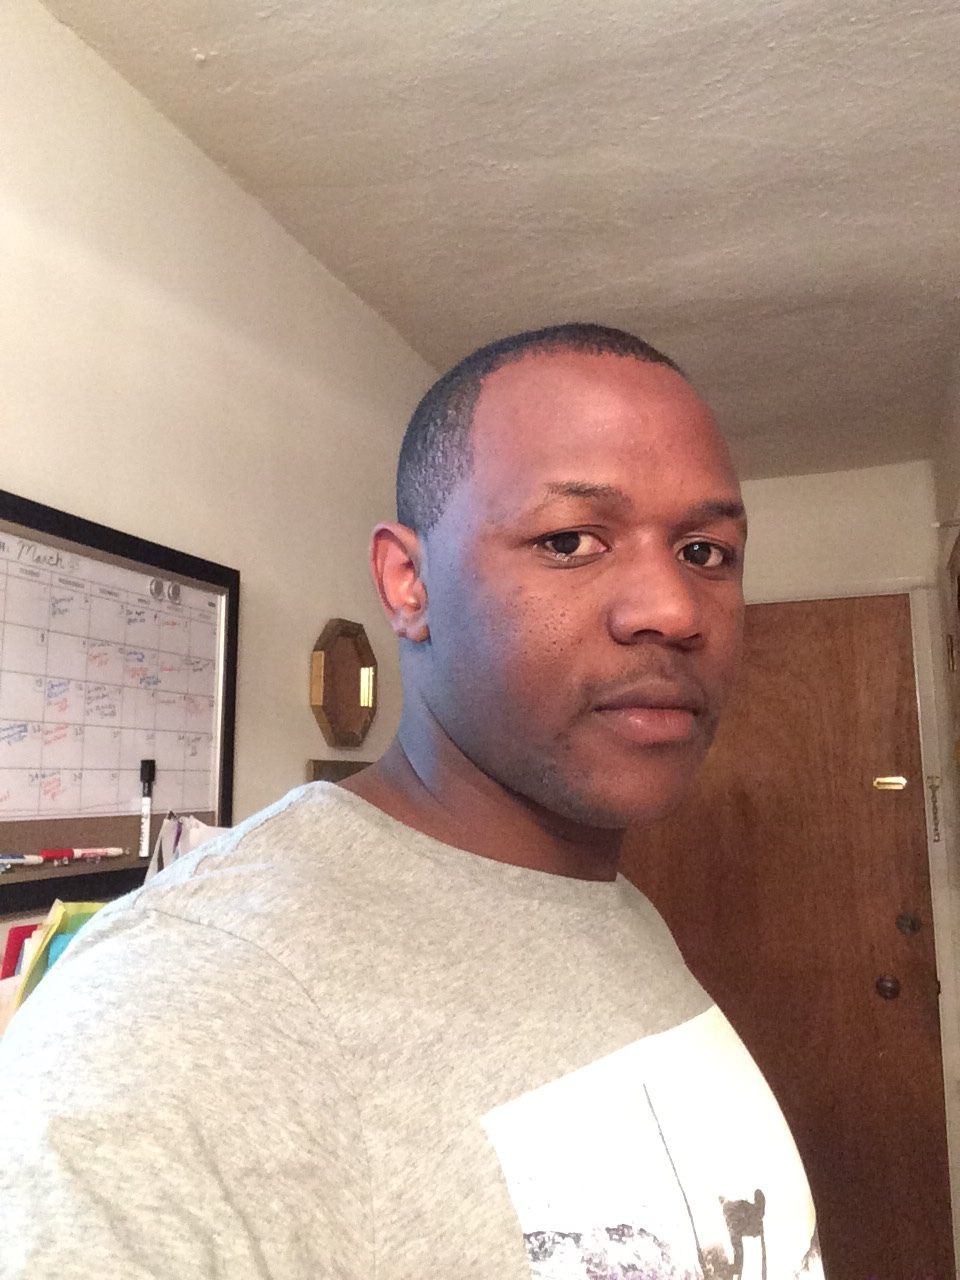
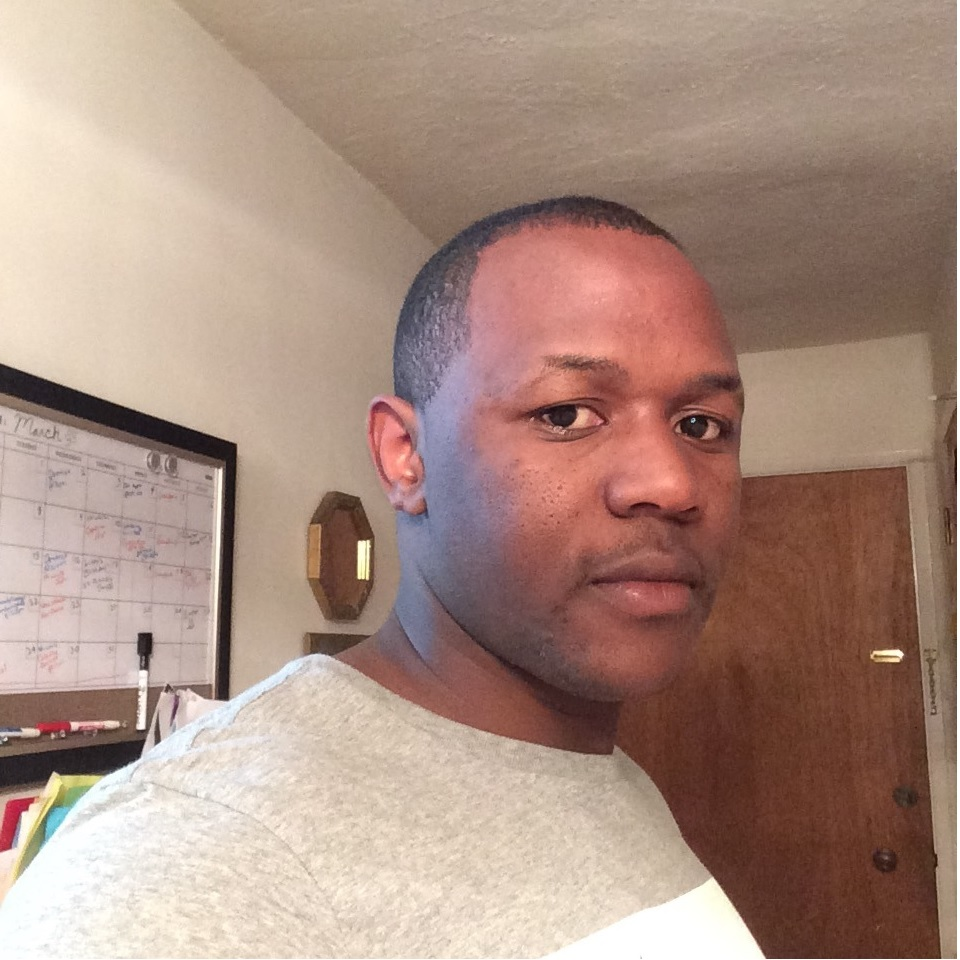
added profile pics

diff --git a/index.html b/index.html
@@ -3,7 +3,8 @@
     <title>incognito</title>
     <link rel="stylesheet" href="styles/style.css" type="text/css">
     <link href="https://fonts.googleapis.com/css?family=EB+Garamond|Pacifico" rel="stylesheet">
-</head>
+    <link href="https://fonts.googleapis.com/css?family=Cantarell:400i|Oswald" rel="stylesheet">
+<head>
 
 <body>
    <header>
@@ -136,8 +137,6 @@
     I want to give people the freedom to spend their time as they choose, rather than being stuck in traffic for half of their waking hours.
     A typical Silicon Valley resident, I spend my time coding, gaming, and mainlining espresso.</p>
   </div>
-  </div>
-  <div class="bio-team2">
   <div class="bio">
     <img src="images/alfonsosprofile.jpg">
     <h4>Alfonso Gutierrez</h4>
@@ -148,6 +147,7 @@
     </p>
   </div>
   <div class="bio">
+  
     <h4>Jason Ma</h4>
     <p> I joined this development team because I wanted to work with the related technology.
     Having an app that enables clients to pay for all forms of transportation costs with one simple touch makes the clients' lives easier.
@@ -155,6 +155,7 @@
     </p>
   </div>
   <div class="bio">
+    <img src="images/adamsprofile.jpg">
     <h4>Adam Makubuya</h4>
   <p> I am a certified Entrepreneur, well-versed in business administration, and currently learning how to code.
   I love the outdoors and one thing I can say is love getting where I need to go efficiently.

diff --git a/styles/style.css b/styles/style.css
@@ -223,10 +223,8 @@ font-family: 'Cantarell', sans-serif;
 
 .bio-team{
 display: flex;
+flex-wrap: nowrap
 }
-.bio-team2{
-  display: flex;
-  margin-top: 30px
 
 }
 .bio{
@@ -234,21 +232,28 @@ display: flex;
  margin-left:auto;
  margin-right: auto ;
 }
-.bio img{
-  width:80%;
+.bio-team img{
+  display: block;
+  width:70%;
   border-radius: 50%;
   margin-left: auto;
-  margin-right: auto
+  margin-right: auto;
+  border: 5px solid black 
 }
-h4{
+.bio-team h4{
   font-family: 'Oswald', sans-serif;
   margin-bottom:10px;
   text-align: center
 }
 .bio p{
   font-size: 1.3em;
-  text-align: center
+  margin-left: auto;
+  margin-right: auto;
+  width: 80%;
+  text-indent: 10%
 }
+
+
 /***********End about*****************/
 
 /*********** Media queries ***********/
